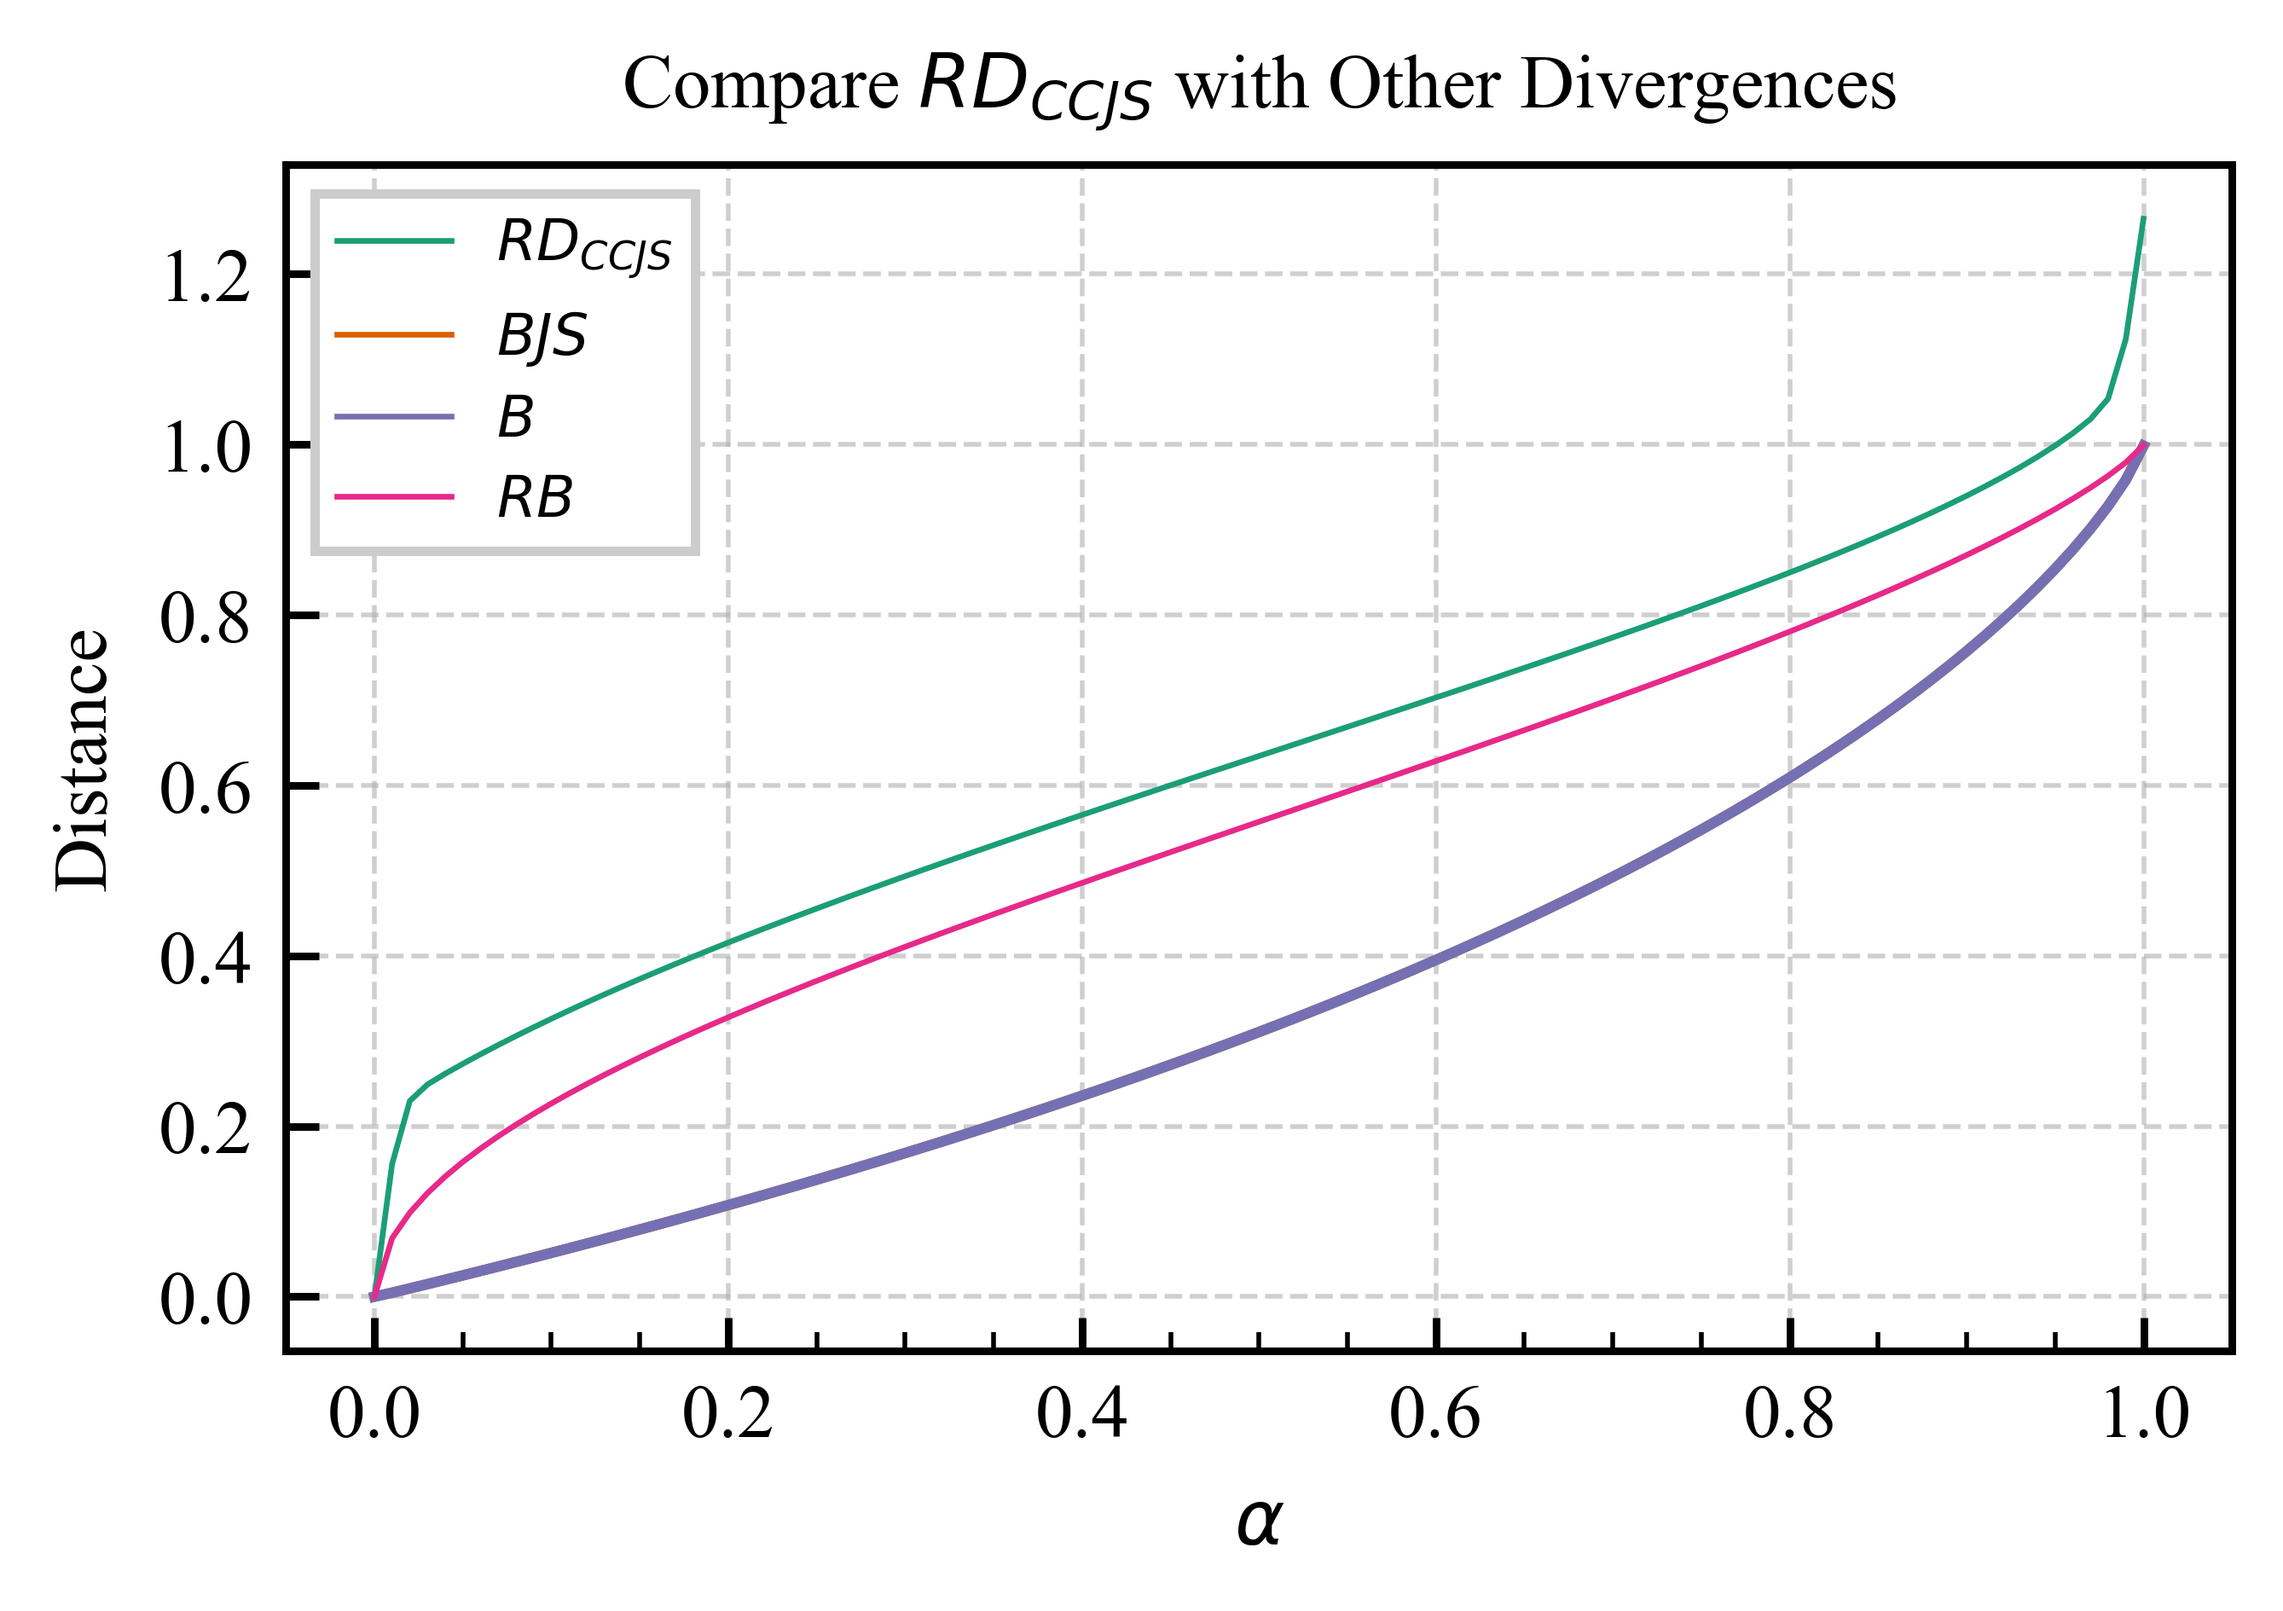
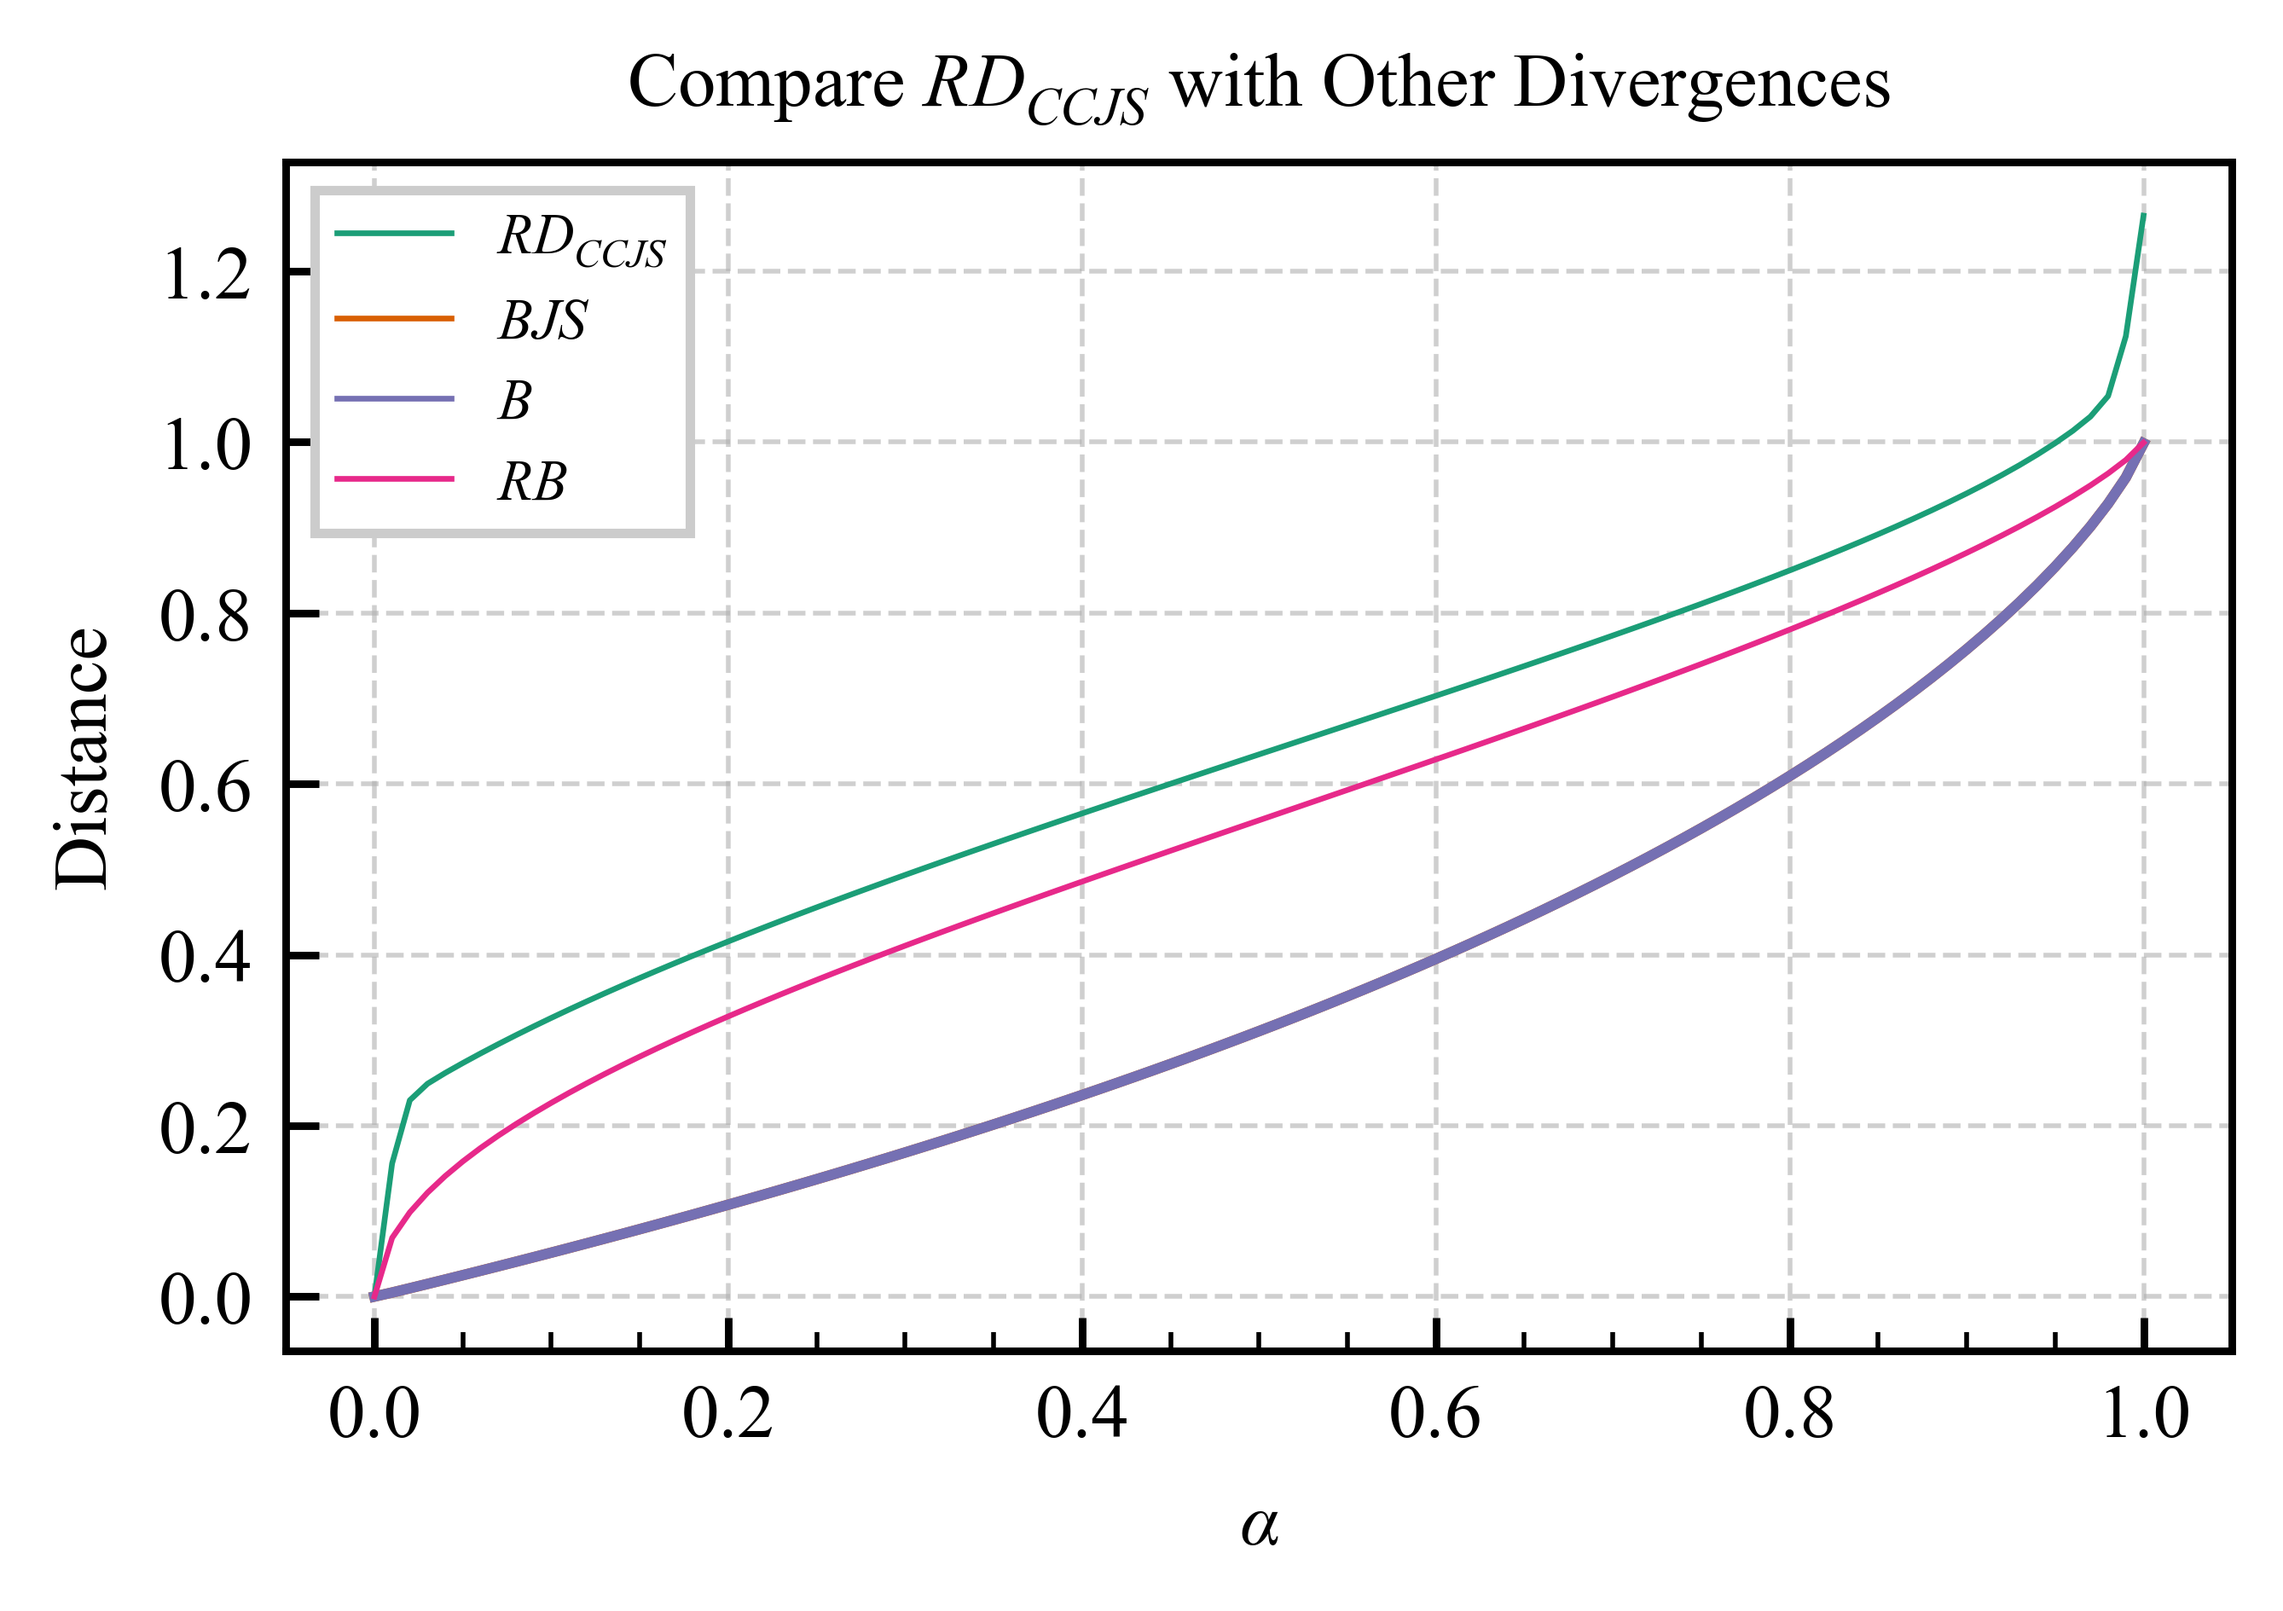
Align Graph Style

diff --git a/utility/plot_style.py b/utility/plot_style.py
@@ -52,8 +52,8 @@ def apply_style() -> None:
         'figure.dpi': 800,
         'savefig.dpi': 800,
 
-        # 颜色和线条
-        'font.family': 'serif',
+        # 字体、颜色和线条
+        'font.family': 'Times New Roman',
         'font.serif': ['Times New Roman'],
         'font.size': 5,
         'axes.titlesize': 8,
@@ -61,6 +61,10 @@ def apply_style() -> None:
         'xtick.labelsize': 8,
         'ytick.labelsize': 8,
         'legend.fontsize': 6,
+        'mathtext.fontset': 'custom',
+        'mathtext.rm': 'Times New Roman',
+        'mathtext.it': 'Times New Roman:italic',
+        'mathtext.bf': 'Times New Roman:bold',
 
         # 线条、标记与颜色
         'lines.linewidth': 0.6,
